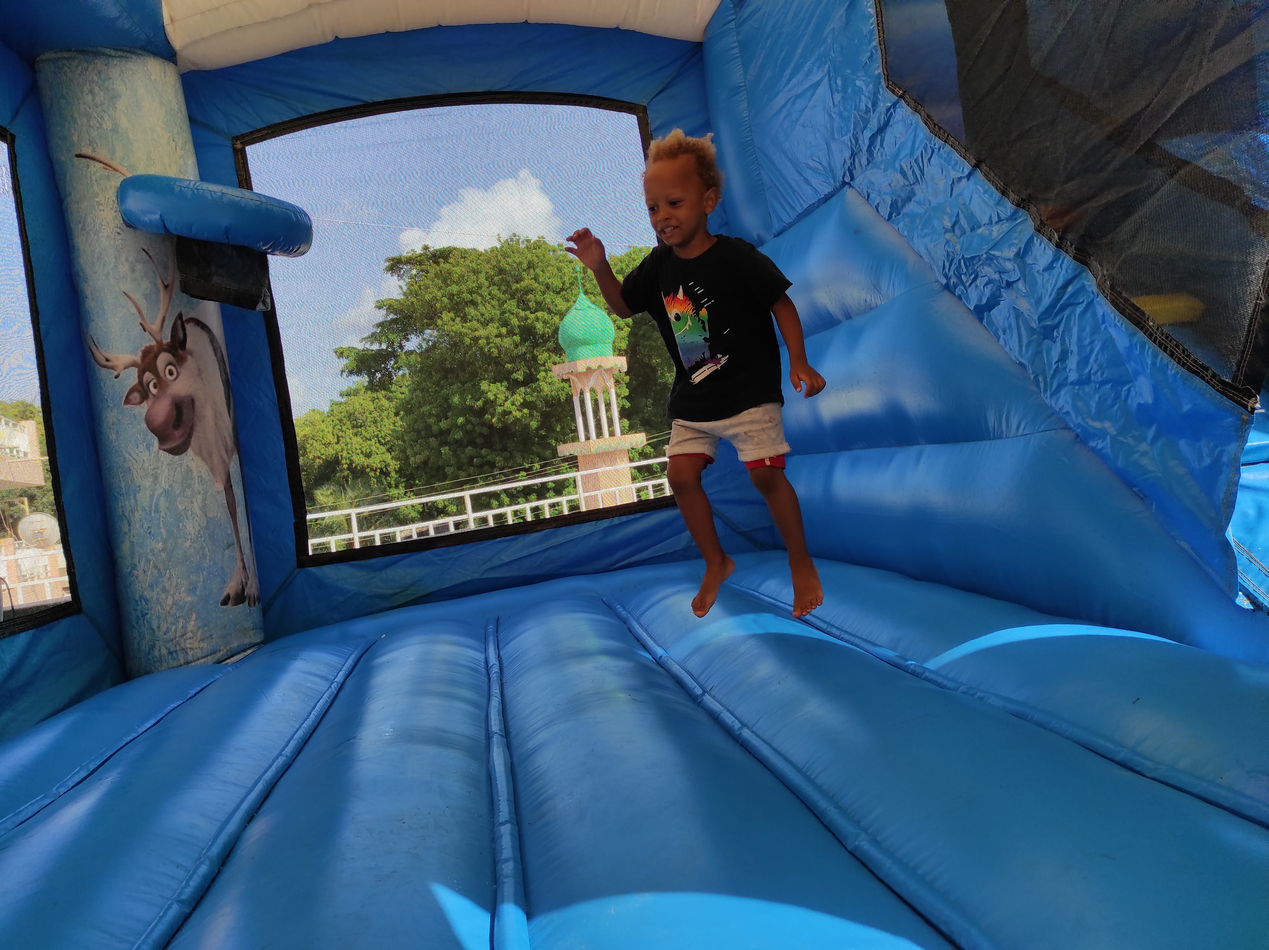
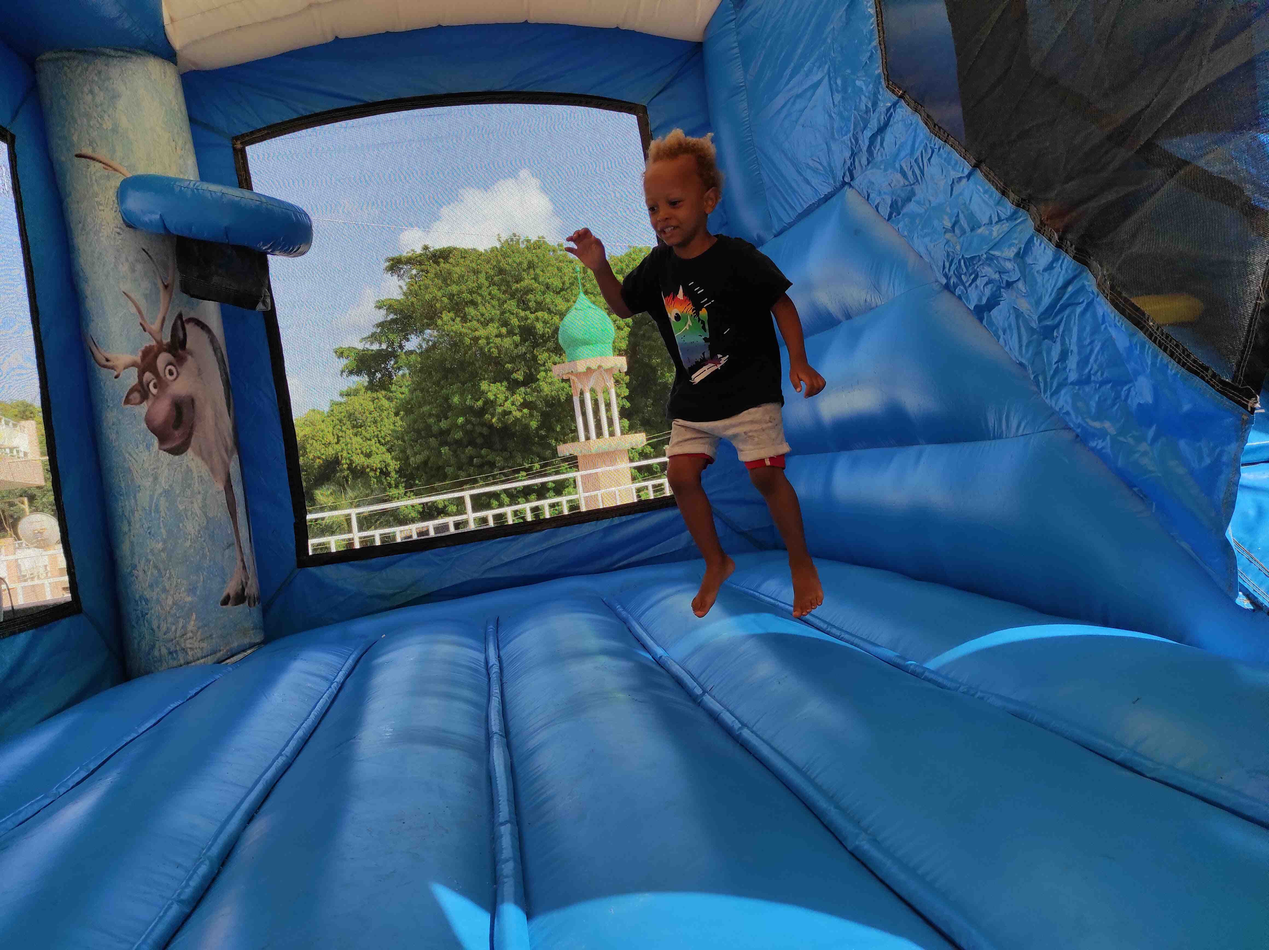
compress img and tailwind correction

Changed region(s): [[0.1875, 0.0933, 0.5312, 0.591], [0.0, 0.2488, 0.0312, 0.5288], [0.0, 0.5599, 0.0312, 0.6221]]

diff --git a/src/index.css b/src/index.css
@@ -1,5 +1,3 @@
 @import "tailwindcss";
-@import tailwind preflight;
-@import tailwind utilities;
 
 @plugin "@iconify/tailwind4";
